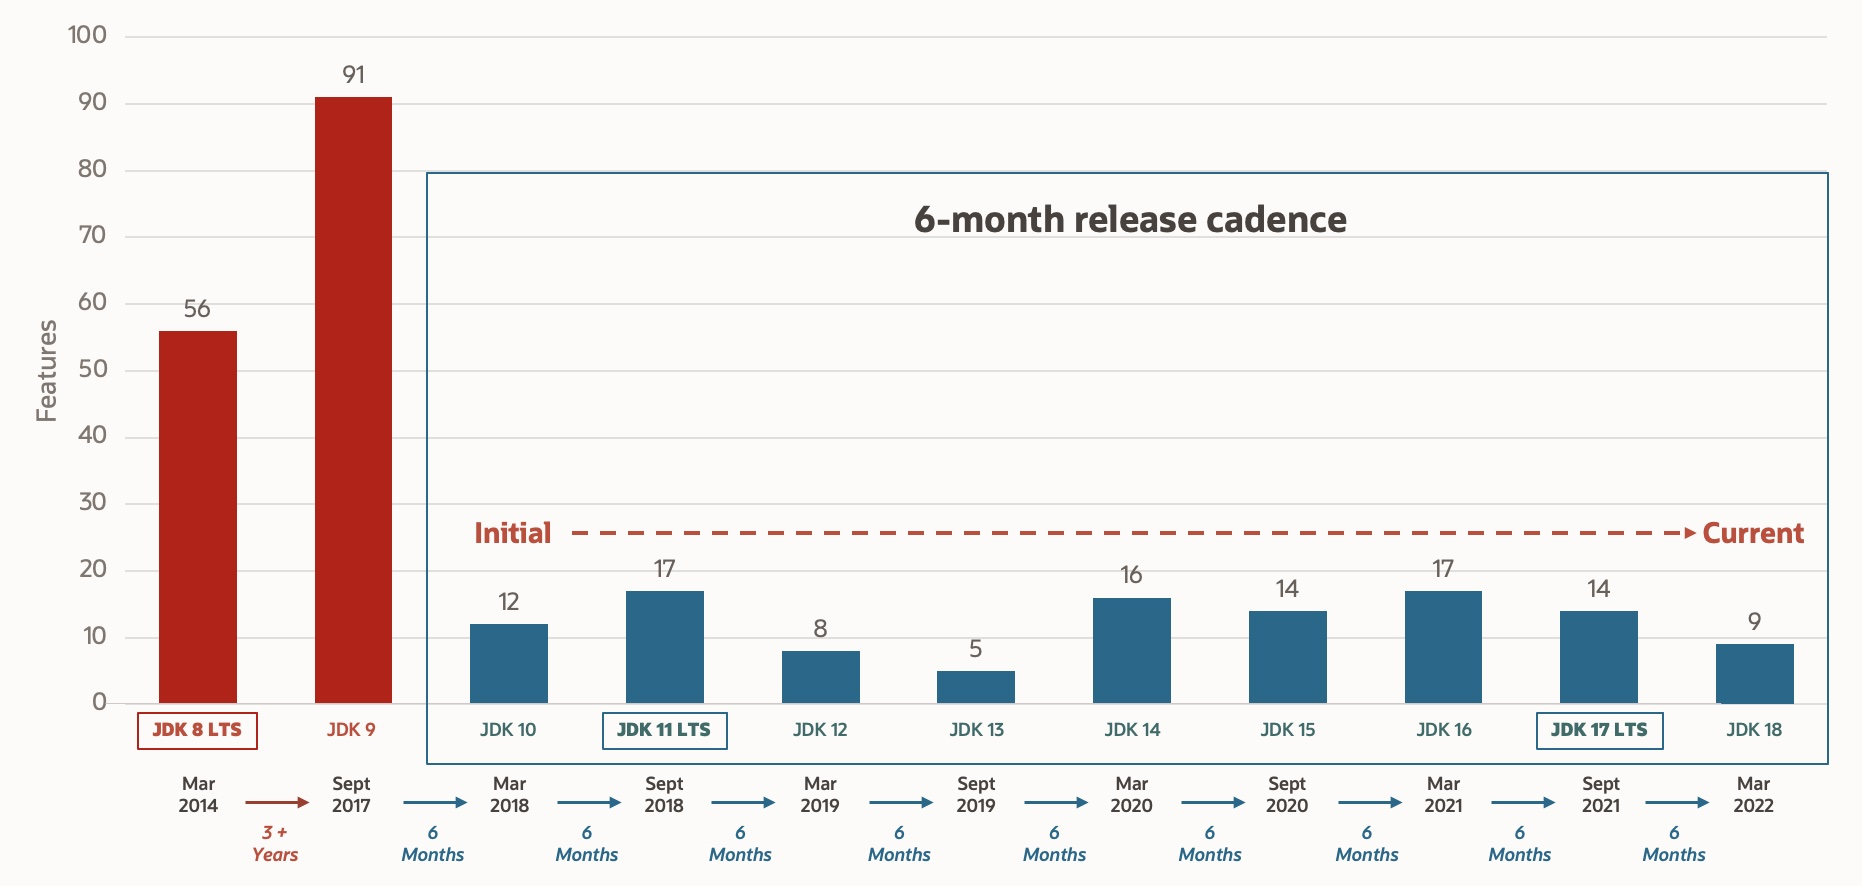
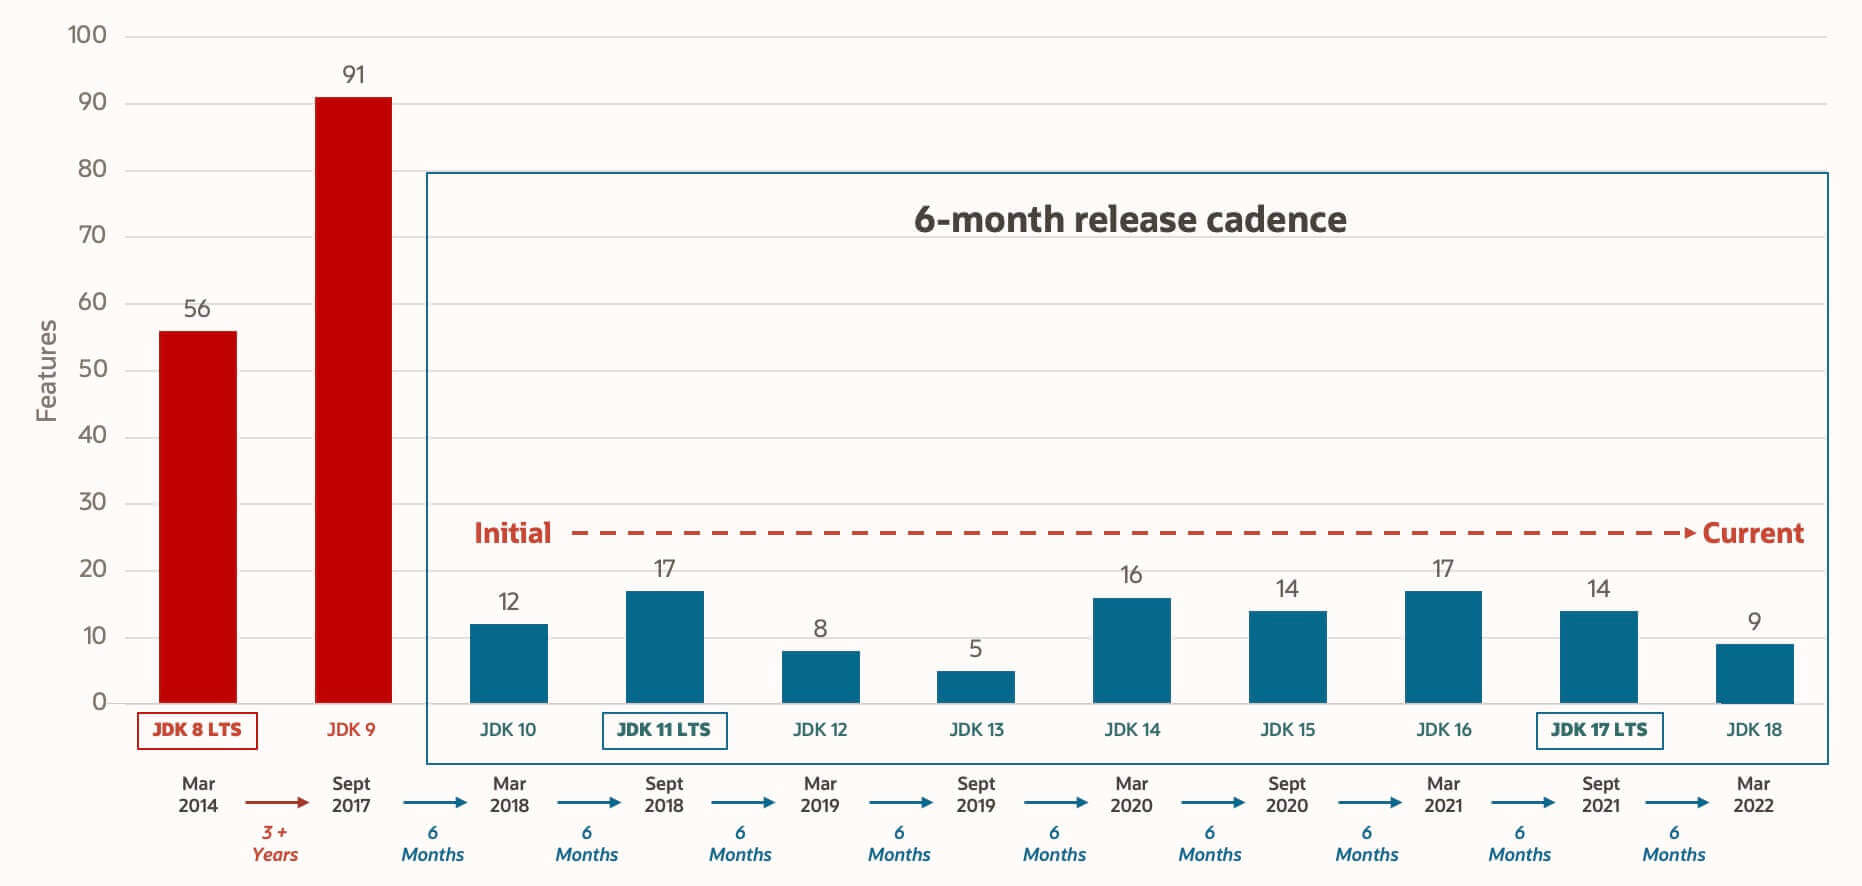
[docs update]java基础部分图片重新绘制

diff --git a/docs/java/basis/why-there-only-value-passing-in-java.md b/docs/java/basis/why-there-only-value-passing-in-java.md
@@ -75,7 +75,7 @@ num2 = 20
 
 在 `swap()`  方法中，`a`、`b` 的值进行交换，并不会影响到 `num1`、`num2`。因为，`a`、`b` 的值，只是从 `num1`、`num2` 的复制过来的。也就是说，a、b 相当于 `num1`、`num2` 的副本，副本的内容无论怎么修改，都不会影响到原件本身。
 
-![基本数据类型参数](./images/java-value-passing-01.png)
+![基本数据类型参数](./images/java-value-passing-01.jpg)
 
 通过上面例子，我们已经知道了一个方法不能修改一个基本数据类型的参数，而对象引用作为参数就不一样，请看案例2。
 
@@ -106,7 +106,7 @@ num2 = 20
 
 解析：
 
-![引用数据类型参数1](./images/java-value-passing-02.png)
+![引用数据类型参数1](./images/java-value-passing-02.jpg)
 
 看了这个案例很多人肯定觉得 Java 对引用类型的参数采用的是引用传递。
 
@@ -156,7 +156,7 @@ xiaoLi:小李
 
 `swap` 方法的参数 `person1` 和 `person2` 只是拷贝的实参 `xiaoZhang` 和 `xiaoLi` 的地址。因此， `person1` 和 `person2` 的互换只是拷贝的两个地址的互换罢了，并不会影响到实参 `xiaoZhang` 和 `xiaoLi` 。
 
-![引用数据类型参数2](./images/java-value-passing-03.png)
+![引用数据类型参数2](./images/java-value-passing-03.jpg)
 
 ## 总结
 

diff --git a/docs/java/basis/java-basic-questions-02.md b/docs/java/basis/java-basic-questions-02.md
@@ -209,7 +209,7 @@ System.out.println(person1.getAddress() == person1Copy.getAddress());
 
 我专门画了一张图来描述浅拷贝、深拷贝、引用拷贝：
 
-![](./images/shallow&deep-copy.png)
+![浅拷贝、深拷贝、引用拷贝示意图](./images/shallow&deep-copy.jpg)
 
 ## Java 常见类
 
